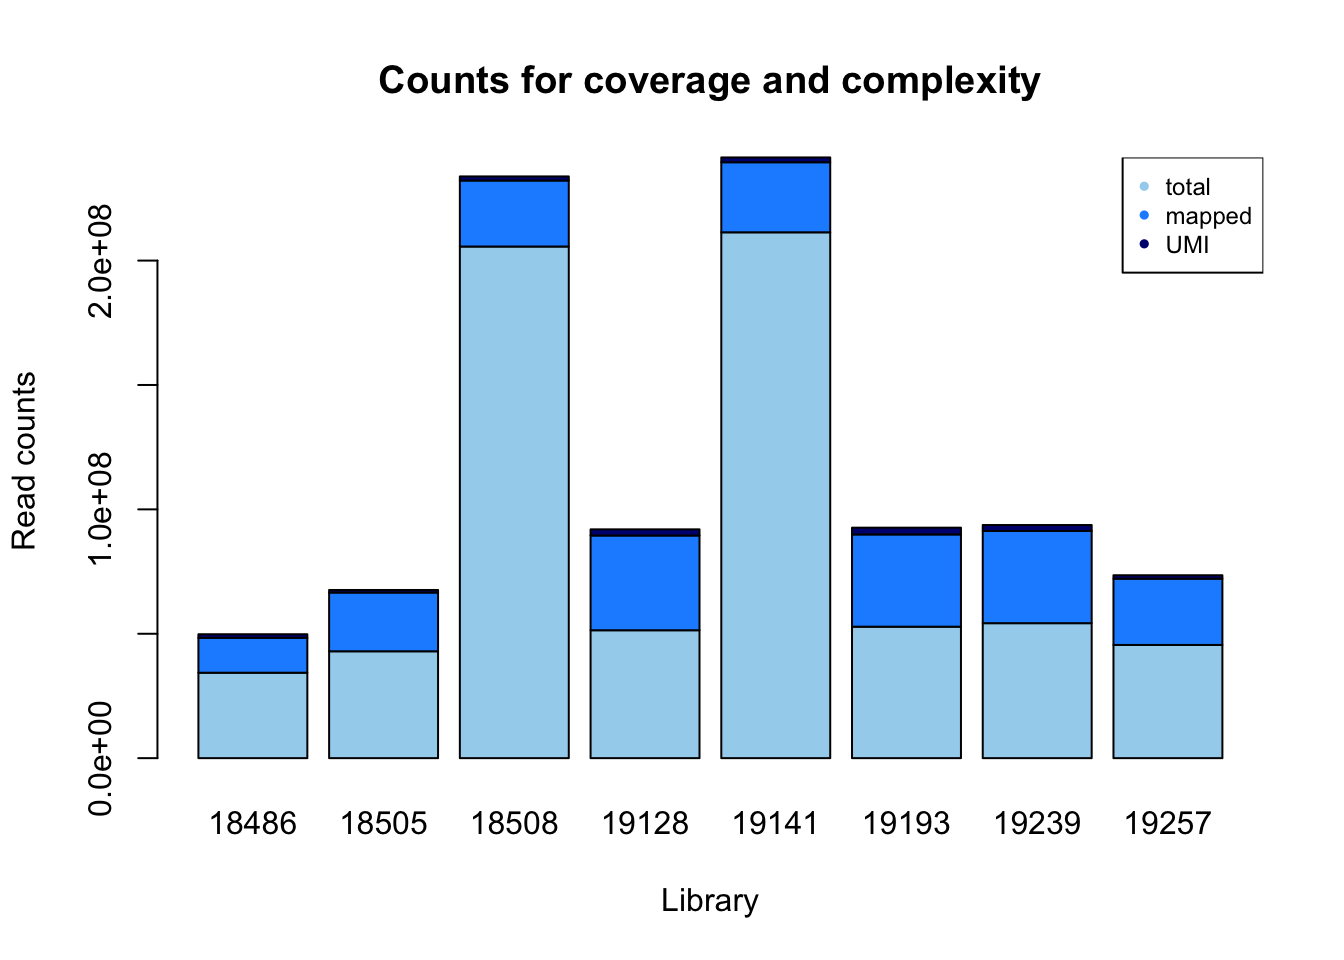
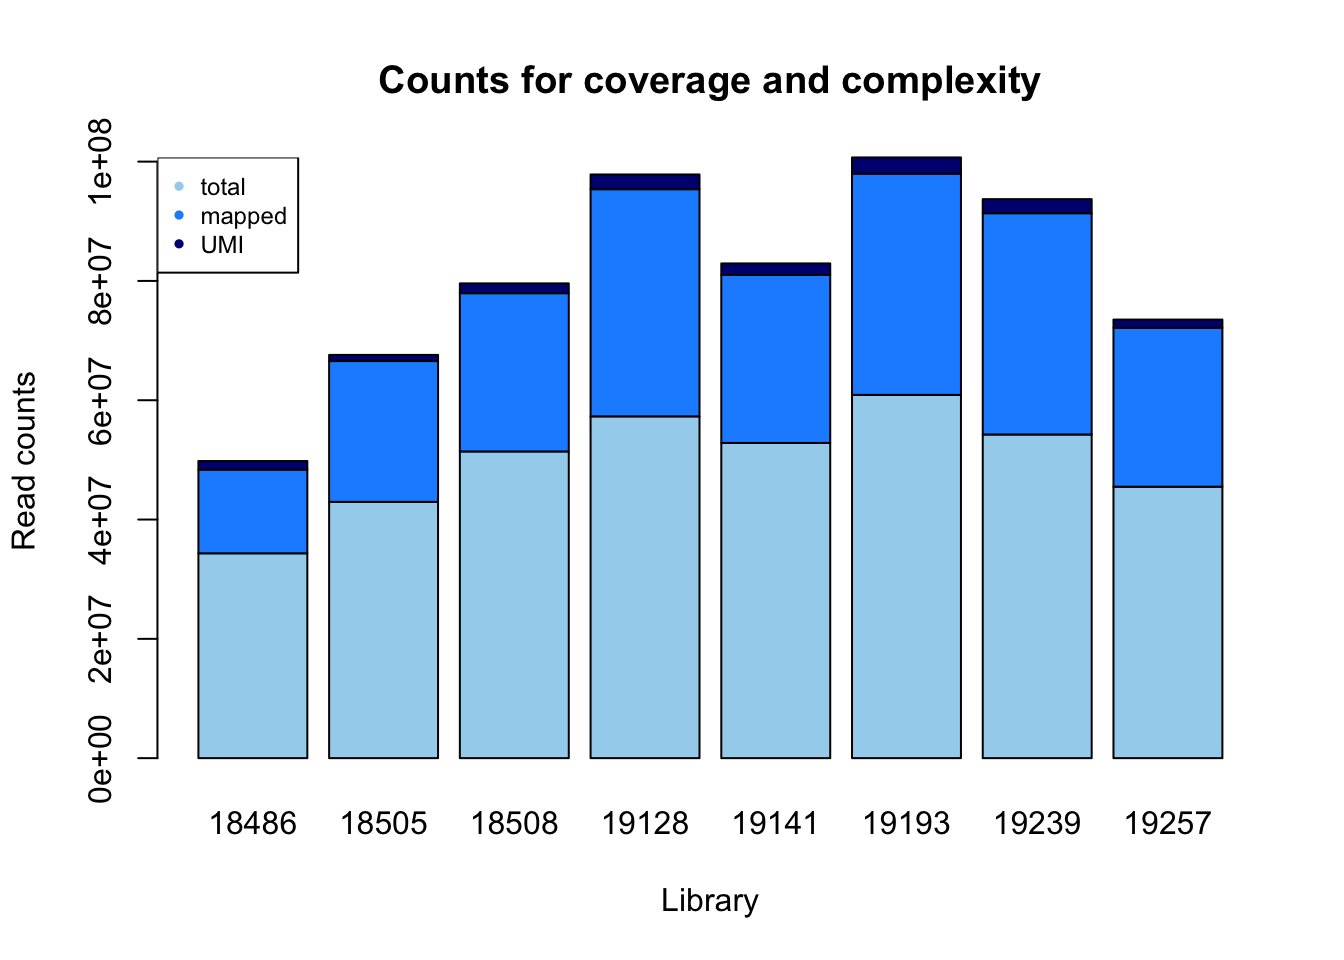
Build site.

diff --git a/docs/Net_3_explore.html b/docs/Net_3_explore.html
@@ -315,10 +315,10 @@ div.tocify {
 shared across the workflowr files. -->
 <!-- Update knitr chunk options -->
 <!-- Insert the date the file was last updated -->
-<p><strong>Last updated:</strong> 2018-02-21</p>
+<p><strong>Last updated:</strong> 2018-02-23</p>
 <!-- Insert the code version (Git commit SHA1) if Git repository exists and R
  package git2r is installed -->
-<p><strong>Code version:</strong> 03d365d</p>
+<p><strong>Code version:</strong> 4449fa3</p>
 <!-- Add your analysis here -->
 <div id="mapped-reads" class="section level2">
 <h2>Mapped reads</h2>
@@ -339,7 +339,7 @@ shared across the workflowr files. -->
 <p>Look at number of reads, mapped reads, deduplicated reads.</p>
 <p>‘samtools view -c -F 4’</p>
 <pre class="r"><code>libraries=c(&quot;18486&quot;, &quot;18505&quot;, &quot;18508&quot;, &quot;19128&quot;, &quot;19141&quot;, &quot;19193&quot;, &quot;19239&quot;, &#39;19257&#39;)
-fastq=c( 34342214,42959246,205654644, 51413661,211367408,52841852,54253650,45506210)
+fastq=c( 34342214,42959246,51413661, 57292491,52841852,60898831,54253650,45506210)
 mapped=c(14018943,23607050,26532568,38084941,28165596,37084191,37095436,26636660)
 dedup= c(1446379, 1032174,1642314,2469438,1926300,2717515, 2361238, 1377712 )
 
@@ -347,7 +347,7 @@ read_count=rbind(fastq,mapped,dedup)
 colnames(read_count)=libraries </code></pre>
 <pre class="r"><code>total_reads= sum(fastq)
 total_reads</code></pre>
-<pre><code>[1] 698338885</code></pre>
+<pre><code>[1] 399508155</code></pre>
 <pre class="r"><code>total_map= sum(mapped)
 total_map</code></pre>
 <pre><code>[1] 231225385</code></pre>
@@ -355,14 +355,14 @@ total_map</code></pre>
 total_dedup</code></pre>
 <pre><code>[1] 14973070</code></pre>
 <pre class="r"><code>total_map/total_reads</code></pre>
-<pre><code>[1] 0.3311077</code></pre>
+<pre><code>[1] 0.5787751</code></pre>
 <pre class="r"><code>total_dedup/total_map</code></pre>
 <pre><code>[1] 0.0647553</code></pre>
 <p>Make a plot to look at this by line:</p>
 <pre class="r"><code>count_plot=barplot(as.matrix(read_count), main=&quot;Counts for coverage and complexity&quot;,
   xlab=&quot;Library&quot;, col=c(&quot;lightskyblue2&quot;,&quot;dodgerblue1&quot;,&quot;navy&quot;),
     ylab=&quot;Read counts&quot;)
-legend(&quot;topright&quot;, legend = c(&quot;total&quot;, &quot;mapped&quot;, &quot;UMI&quot;), col=c(&quot;lightskyblue2&quot;,&quot;dodgerblue1&quot;,&quot;navy&quot;), pch=20, cex = .75)</code></pre>
+legend(&quot;topleft&quot;, legend = c(&quot;total&quot;, &quot;mapped&quot;, &quot;UMI&quot;), col=c(&quot;lightskyblue2&quot;,&quot;dodgerblue1&quot;,&quot;navy&quot;), pch=20, cex = .75)</code></pre>
 <p><img src="figure/Net_3_explore.Rmd/unnamed-chunk-3-1.png" width="672" style="display: block; margin: auto;" /></p>
 <p>Look at this by proportions:</p>
 <pre class="r"><code>percent_mapped= mapped/fastq
@@ -384,12 +384,19 @@ legend(&quot;bottomright&quot;, legend = c(&quot;un-mapped&quot;, &quot;mapped&q
 14018943 25801188 27401128 28903173 37087002 38084941 </code></pre>
 <pre class="r"><code>summary(percent_mapped)</code></pre>
 <pre><code>   Min. 1st Qu.  Median    Mean 3rd Qu.    Max. 
- 0.1210  0.3056  0.5403  0.4594  0.6428  0.6927 </code></pre>
+ 0.3661  0.4935  0.5403  0.5317  0.5787  0.6402 </code></pre>
 <pre class="r"><code>summary(percent_not_mapped)</code></pre>
 <pre><code>   Min. 1st Qu.  Median    Mean 3rd Qu.    Max. 
- 0.2592  0.3117  0.4326  0.5085  0.6605  0.8710 </code></pre>
-<p>Net1 UMI/fastq: 0.03347032 0.02509783 0.02486150 0.01652832 Mayer UMI/fastq: 0.01647986<br />
-Net3 UMI/fastq: 0.042116650 0.024026818 0.007985786 0.048030775 0.009113515 0.051427323 0.043522196 0.030275253</p>
+ 0.3163  0.3771  0.4326  0.4313  0.4712  0.5918 </code></pre>
+<pre class="r"><code>summary(percent_UMI)</code></pre>
+<pre><code>   Min. 1st Qu.  Median    Mean 3rd Qu.    Max. 
+0.02403 0.03153 0.03929 0.03701 0.04321 0.04462 </code></pre>
+<pre class="r"><code>percent_mapped</code></pre>
+<pre><code>[1] 0.3660965 0.5254952 0.4841175 0.6216435 0.4965628 0.5643241 0.6402186
+[8] 0.5550660</code></pre>
+<pre class="r"><code>percent_UMI</code></pre>
+<pre><code>[1] 0.04211665 0.02402682 0.03194314 0.04310230 0.03645406 0.04462343
+[7] 0.04352220 0.03027525</code></pre>
 <p>I will now use the get_mapped.py script from the previous analysis to see how long the mapped reads are. I copied it to /project2/gilad/briana/Net-seq/Net-seq3/code. The code takes in sorted bam file and an output text file. I will create a sbatch script to run this on all 8 files. This file is called wrap_get_mapped.sh and is in the same code directory.</p>
 <pre class="bash"><code>#!/bin/bash
 
@@ -654,7 +661,7 @@ ggheatmap</code></pre>
 <pre class="r"><code>summary(net_cov_full$`18486`)</code></pre>
 <pre><code>     Min.   1st Qu.    Median      Mean   3rd Qu.      Max. 
       0.0       0.0       5.0     325.7      22.0 2651806.0 </code></pre>
-<pre class="r"><code>plot(log(sort(net_cov_full$`18486`, decreasing = TRUE)))</code></pre>
+<pre class="r"><code>plot(log10(sort(net_cov_full$`18486`, decreasing = TRUE)))</code></pre>
 <p><img src="figure/Net_3_explore.Rmd/unnamed-chunk-21-1.png" width="672" style="display: block; margin: auto;" /></p>
 <pre class="r"><code>plot(log(sort(net_cov_full$`18505`, decreasing = TRUE)))</code></pre>
 <p><img src="figure/Net_3_explore.Rmd/unnamed-chunk-21-2.png" width="672" style="display: block; margin: auto;" /></p>
@@ -1086,12 +1093,71 @@ abline(0,1) </code></pre>
 summary(x)</code></pre>
 <pre><code>   Min. 1st Qu.  Median    Mean 3rd Qu.    Max. 
 0.00000 0.01163 0.50000 0.58145 1.00000 1.00000 </code></pre>
-<p>Problem could be in the or statement from awk. It looks like we see 0s in the dedup but not in the sort. We wouldnt expect that.</p>
+<p>Specifically remove rows in the INSIG2 gene: 118843994-118869607</p>
+<pre class="r"><code>chr2_no0_18486_noinsig2= chr2_no0_18486[which(chr2_no0_18486$pos &gt; 118869607 | chr2_no0_18486$pos &lt; 118843994),]</code></pre>
+<p>This gets rid of 22550 rows. Now I can plot again.</p>
+<pre class="r"><code> plot(chr2_no0_18486_noinsig2$sort ~ chr2_no0_18486_noinsig2$dedup, ylab = &quot;reads&quot;, xlab=&quot;molecules&quot;, main=&quot;Reads vs molecules by position chr2&quot;)
+abline(0,1) </code></pre>
+<p><img src="figure/Net_3_explore.Rmd/unnamed-chunk-55-1.png" width="672" style="display: block; margin: auto;" /> Redo this analysis but only map 3’ end of the reads.</p>
+<pre class="r"><code>chr2_3prime_no0_18486=read.csv(&quot;../data/sort_dedup_3prime_chr2_no0.18486.txt&quot;, header = FALSE, sep=&quot;\t&quot;)
+colnames(chr2_3prime_no0_18486)= c(&quot;chr&quot;, &quot;pos&quot;, &quot;sort&quot;, &quot;dedup&quot;)
+
+ plot(chr2_3prime_no0_18486$sort ~ chr2_3prime_no0_18486$dedup, ylab = &quot;reads&quot;, xlab=&quot;molecules&quot;, main=&quot;Reads vs molecules by position chr2&quot;)</code></pre>
+<p><img src="figure/Net_3_explore.Rmd/unnamed-chunk-56-1.png" width="672" style="display: block; margin: auto;" /> Cut that top point:</p>
+<pre class="r"><code>chr2_3prime_no0_18486_sum=mutate (chr2_3prime_no0_18486, sum=chr2_3prime_no0_18486$sort + chr2_3prime_no0_18486$dedup) 
+
+chr2_3prime_no0_18486_sum_sort=arrange(chr2_3prime_no0_18486_sum, desc(sum))
+
+
+
+chr2_3prime_no0_18486_cut=chr2_3prime_no0_18486_sum_sort[which(chr2_3prime_no0_18486_sum_sort$sort&lt;10000),]
+plot(chr2_3prime_no0_18486_cut$sort ~ chr2_3prime_no0_18486_cut$dedup, ylab = &quot;reads&quot;, xlab=&quot;molecules&quot;, main=&quot;Reads vs molecules by position chr2&quot;)
+abline(0,1) </code></pre>
+<p><img src="figure/Net_3_explore.Rmd/unnamed-chunk-57-1.png" width="672" style="display: block; margin: auto;" /></p>
+<pre class="r"><code>y=chr2_3prime_no0_18486$dedup/chr2_3prime_no0_18486$sort
+summary(y)</code></pre>
+<pre><code>   Min. 1st Qu.  Median    Mean 3rd Qu.    Max. 
+ 0.0000  0.5000  1.0000  0.8051  1.0000  1.0000 </code></pre>
+<pre class="r"><code>#look at top difference ones 
+chr2_3prime_no0_18486_sum_sort_dif= mutate(chr2_3prime_no0_18486_sum_sort, diff=chr2_3prime_no0_18486_sum_sort$sort - chr2_3prime_no0_18486_sum_sort$dedup)</code></pre>
+<div id="coverage-at-splice-sites" class="section level4">
+<h4>Coverage at splice sites</h4>
 <p>Get the 3 and 5 splice sites from the GTF file</p>
-<pre class="bash"><code>less gencode.v19.annotation.gtf | tr &quot;\&quot;&quot; &quot;\t&quot; | awk &#39;$3 == &quot;exon&quot;&#39; | awk &#39;NR &gt;=6 {if($7 == &quot;+&quot;) print($1 &quot;\t&quot; $4 -1 &quot;\t&quot; $4 &quot;\t&quot; $10 &quot;\t0\t&quot; $7 ); else print($1 &quot;\t&quot; $5 -1 &quot;\t&quot; $5 &quot;\t&quot; $10 &quot;\t0\t&quot; $7 )}&#39;  | sort -k1,1 -k2,2n &gt; gencode.v19.5prime.gtf
+<pre class="bash"><code>less gencode.v19.annotation.gtf | tr &quot;\&quot;&quot; &quot;\t&quot; | awk &#39;$3 == &quot;exon&quot;&#39;| awk &quot;&quot; | awk &#39;NR &gt;=6 {if($7 == &quot;+&quot;) print($1 &quot;\t&quot; $4 -1 &quot;\t&quot; $4 &quot;\t&quot; $10 &quot;\t0\t&quot; $7 ); else print($1 &quot;\t&quot; $5 -1 &quot;\t&quot; $5 &quot;\t&quot; $10 &quot;\t0\t&quot; $7 )}&#39;  | sort -k1,1 -k2,2n &gt; gencode.v19.5prime.gtf
 
 less gencode.v19.annotation.gtf | tr &quot;\&quot;&quot; &quot;\t&quot; | awk &#39;$3 == &quot;exon&quot;&#39; | awk &#39;NR &gt;=6 {if($7 == &quot;+&quot;) print($1 &quot;\t&quot; $5 -1 &quot;\t&quot; $5 &quot;\t&quot; $10 &quot;\t0\t&quot; $7 ); else print($1 &quot;\t&quot; $4 -1 &quot;\t&quot; $4 &quot;\t&quot; $10 &quot;\t0\t&quot; $7 )}&#39;  | sort -k1,1 -k2,2n &gt; gencode.v19.3prime.gtf
 </code></pre>
+<p>Get rid of first exon:</p>
+<pre class="bash"><code>less gencode.v19.annotation.gtf | tr &quot;\&quot;&quot; &quot;\t&quot; | awk &#39;$3 == &quot;exon&quot;&#39;| awk &#39;$34 != &quot;1;&quot;&#39; | awk &#39;NR &gt;=6 {if($7 == &quot;+&quot;) print($1 &quot;\t&quot; $4 -1 &quot;\t&quot; $4 &quot;\t&quot; $10 &quot;\t0\t&quot; $7 ); else print($1 &quot;\t&quot; $5 -1 &quot;\t&quot; $5 &quot;\t&quot; $10 &quot;\t0\t&quot; $7 )}&#39;  | sort -k1,1 -k2,2n &gt; gencode.v19.5prime.noE1.bed
+
+less gencode.v19.annotation.gtf | tr &quot;\&quot;&quot; &quot;\t&quot; | awk &#39;$3 == &quot;exon&quot;&#39; | awk &#39;$34 != &quot;1;&quot;&#39;| awk &#39;NR &gt;=6 {if($7 == &quot;+&quot;) print($1 &quot;\t&quot; $5 -1 &quot;\t&quot; $5 &quot;\t&quot; $10 &quot;\t0\t&quot; $7 ); else print($1 &quot;\t&quot; $4 -1 &quot;\t&quot; $4 &quot;\t&quot; $10 &quot;\t0\t&quot; $7 )}&#39;  | sort -k1,1 -k2,2n &gt; gencode.v19.3prime.noE1.bed</code></pre>
+<p>Now I need to make a TES bed file. I want 3 == gene. On the pos strand I want 4 - 300 to 4 and for the reverse strand I want 5 -300 to 5</p>
+<pre class="bash"><code>less gencode.v19.annotation.gtf | tr &quot;\&quot;&quot; &quot;\t&quot; | awk &#39;$3 == &quot;gene&quot;&#39;| awk &#39;NR &gt;=6 {if($7 == &quot;+&quot;) print($1 &quot;\t&quot; $4 - 300 &quot;\t&quot; $4 &quot;\t&quot; $10 &quot;\t0\t&quot; $7 ); else print($1 &quot;\t&quot; $5 -300 &quot;\t&quot; $5 &quot;\t&quot; $10 &quot;\t0\t&quot; $7 )}&#39;  | sort -k1,1 -k2,2n &gt; gencode.v19.300TES.bed</code></pre>
+<p>Now I want to get only the lines in the noE1 files that are not in the TES file. I will do this with bedtool intersect -v</p>
+<pre class="bash"><code>#!/bin/bash
+
+
+#SBATCH --job-name=intersect
+#SBATCH --time=8:00:00
+#SBATCH --partition=gilad
+#SBATCH --mem=16G
+#SBATCH --tasks-per-node=4 
+#SBATCH --mail-type=END
+#SBATCH --output=intersect.sbatch.out
+#SBATCH --error=intersect.sbatch.err
+
+module load Anaconda3
+
+source activate net-seq
+
+
+
+bedtools intersect -v -sorted -a gencode.v19.5prime.noE1.bed -b gencode.v19.300TES.bed &gt; gencode.v19.5prime.noE1noTES.bed
+
+
+bedtools intersect -v -sorted -a gencode.v19.3prime.noE1.bed -b gencode.v19.300TES.bed &gt; gencode.v19.3prime.noE1noTES.bed
+</code></pre>
+<p>No I will change the 5prime and 3prime deep tools scripts to use these files.</p>
 <pre class="bash"><code>#!/bin/bash
 
 
@@ -1135,6 +1201,7 @@ plotHeatmap --sortRegions descend --refPointLabel &quot;5 boundary&quot; -m /pro
 <p>Now I will seperate the genes bed file into pos and neg genes. This will seperate the genes on each strand but not strand.</p>
 <p>I need to separate the bw files by strand as well. I do this in teh bamCoverage command with –filterRNAstrand froward and –filterRNAstrand reverse</p>
 <p>I can the look at the difference in strand in pos then in neg genes.</p>
+</div>
 <div id="try-star-alligner" class="section level4">
 <h4>Try star alligner:</h4>
 <pre class="bash"><code>#!/bin/bash
@@ -1168,6 +1235,82 @@ STAR --runThreadN 4 --genomeDir /scratch/midway2/brimittleman/star_genome/ --rea
 * % of reads mapped to too many loci | 21.21%</p>
 </div>
 </div>
+<div id="correlations-with-rna-seq-for-the-same-line" class="section level3">
+<h3>Correlations with rna seq for the same line</h3>
+<p>/project2/gilad/yangili/LCLs/bams/RNAseqGeuvadis_STAR_18486.final.bam</p>
+<pre class="bash"><code>#!/bin/bash
+
+#SBATCH --job-name=RNA_count_cov
+#SBATCH --output=RNA_count_cov_sbatch.out
+#SBATCH --error=RNA_count_cov_sbatch.err
+#SBATCH --time=8:00:00
+#SBATCH --partition=bigmem2
+#SBATCH --mem=60G
+#SBATCH --mail-type=END
+
+module load Anaconda3  
+
+source activate net-seq 
+
+
+bedtools coverage -counts -sorted -a /project2/gilad/briana/Net-seq/Net-seq3/gencode.v19.annotation.sort.bed -b /project2/gilad/yangili/LCLs/bams/RNAseqGeuvadis_STAR_18486.final.bam &gt; /project2/gilad/briana/Net-seq/Net-seq3/data/gencode_cov/RNAseqGeuvadis_STAR_18486.coverage.bed</code></pre>
+<p>Correlation between this and 18486,</p>
+<pre class="r"><code>rna_seq_cov= read.csv(&quot;../data/RNAseqGeuvadis_STAR_18486.coverage.bed&quot;, stringsAsFactors = FALSE, sep=&quot;\t&quot;, header=FALSE)
+dim(net_cov_full) </code></pre>
+<pre><code>[1] 99900    14</code></pre>
+<pre class="r"><code>dim(rna_seq_cov)</code></pre>
+<pre><code>[1] 99900    13</code></pre>
+<pre class="r"><code>plot(log(rna_seq_cov$V13)~ log(net_cov_full$`18486`))</code></pre>
+<p><img src="figure/Net_3_explore.Rmd/unnamed-chunk-69-1.png" width="672" style="display: block; margin: auto;" /></p>
+<pre class="r"><code>plot(rna_seq_cov$V13~ net_cov_full$`18486`)</code></pre>
+<p><img src="figure/Net_3_explore.Rmd/unnamed-chunk-69-2.png" width="672" style="display: block; margin: auto;" /></p>
+<pre class="r"><code>both_18486=as.data.frame(cbind(rna_seq_cov$V13, net_cov_full$`18486`))
+colnames(both_18486)=c(&quot;RNA&quot;, &quot;Net&quot;)
+cor(both_18486$RNA, both_18486$Net)</code></pre>
+<pre><code>[1] -0.0003325867</code></pre>
+<p>Need to subset this:</p>
+<ul>
+<li>extreme outliers in Net-seq<br />
+</li>
+<li>both =0</li>
+</ul>
+<pre class="r"><code>both_18486_no0= both_18486[both_18486$Net&lt;=30000,]
+both_18486_no0 %&gt;%
+   ggplot(., aes(log(RNA), log(Net))) +
+         geom_point(na.rm = TRUE, size =0.1) +
+         geom_density2d(na.rm = TRUE, size = 1, colour = &#39;red&#39;) +
+         ylab(&#39;log(RNA gene Count)&#39;) +
+         xlab(&#39;Log(Net-seq gene Count)&#39;) + 
+        ggtitle(&quot;Counts per gene in RNAseq bs Netseq 18486&quot;)</code></pre>
+<p><img src="figure/Net_3_explore.Rmd/unnamed-chunk-70-1.png" width="672" style="display: block; margin: auto;" /></p>
+</div>
+<div id="quality-of-dedup-mapped" class="section level3">
+<h3>Quality of dedup mapped</h3>
+<p>/project2/gilad/briana/Net-seq/Net-seq3/data/dedup/YG-SP-NET3-18486-2018-1-8_S3_L008_R1_001-sort.dedup.bam</p>
+<pre class="r"><code>qual_dedup_18486=read.csv(&quot;../data/dedup_18486_mapqual.txt&quot;)
+summary(qual_dedup_18486)</code></pre>
+<pre><code>      X13       
+ Min.   : 6.00  
+ 1st Qu.:13.00  
+ Median :13.00  
+ Mean   :19.37  
+ 3rd Qu.:20.00  
+ Max.   :40.00  </code></pre>
+<pre class="r"><code>hist(qual_dedup_18486$X13)</code></pre>
+<p><img src="figure/Net_3_explore.Rmd/unnamed-chunk-71-1.png" width="672" style="display: block; margin: auto;" /></p>
+<pre class="r"><code>t.test(mq_18486$V1, qual_dedup_18486$X13)</code></pre>
+<pre><code>
+    Welch Two Sample t-test
+
+data:  mq_18486$V1 and qual_dedup_18486$X13
+t = -188.18, df = 1709600, p-value &lt; 2.2e-16
+alternative hypothesis: true difference in means is not equal to 0
+95 percent confidence interval:
+ -1.920881 -1.881281
+sample estimates:
+mean of x mean of y 
+ 17.46468  19.36576 </code></pre>
+</div>
 </div>
 <div id="session-information" class="section level2">
 <h2>Session information</h2>
@@ -1198,9 +1341,9 @@ loaded via a namespace (and not attached):
 [13] pkgconfig_2.0.1  rlang_0.1.6      yaml_2.1.16      stringr_1.2.0   
 [17] knitr_1.18       rprojroot_1.3-2  grid_3.4.2       tidyselect_0.2.3
 [21] reticulate_1.4   glue_1.2.0       R6_2.2.2         rmarkdown_1.8.5 
-[25] purrr_0.2.4      magrittr_1.5     backports_1.1.2  scales_0.5.0    
-[29] htmltools_0.3.6  assertthat_0.2.0 colorspace_1.3-2 labeling_0.3    
-[33] stringi_1.1.6    lazyeval_0.2.1   munsell_0.4.3   </code></pre>
+[25] purrr_0.2.4      magrittr_1.5     MASS_7.3-48      backports_1.1.2 
+[29] scales_0.5.0     htmltools_0.3.6  assertthat_0.2.0 colorspace_1.3-2
+[33] labeling_0.3     stringi_1.1.6    lazyeval_0.2.1   munsell_0.4.3   </code></pre>
 </div>
 
 <hr>
